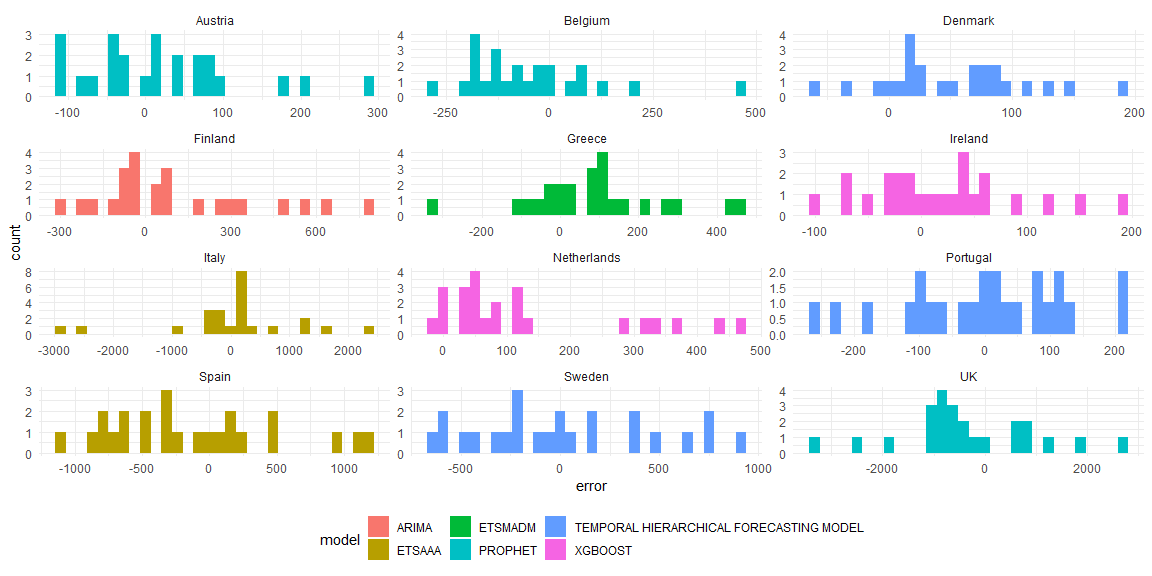
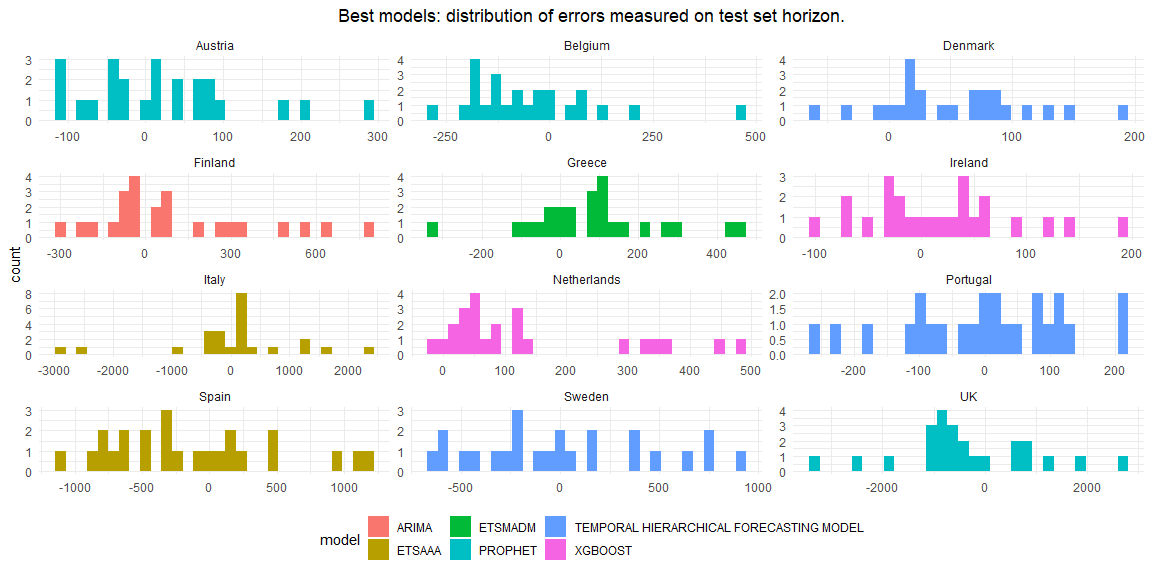
work in progress, 27.10.2021.

diff --git a/Scalable_Demand_Forecasting.md b/Scalable_Demand_Forecasting.md
@@ -198,8 +198,8 @@ by country. In addition we have information about split for train and
 test sets.<br/>
 
 To get inside nested data we can use unnest() function from tidyr
-library. Example is shown below. I encourage to also run commented code
-to see the difference in output.
+library. Example is shown below. I encourage to also run commented out
+code to see the difference in output.
 
 ``` r
 nested_data_tbl %>%
@@ -361,8 +361,11 @@ series based models.
 Like any other ML algorithm, xgboost has hyperparameters.
 Hyperparameters tuning is out of scope of this project, however we’ll
 show how it’s done using tidymodels library. Detailed process can be
-found under below link:
+found under below link:<br/>
 <https://towardsdatascience.com/dials-tune-and-parsnip-tidymodels-way-to-create-and-tune-model-parameters-c97ba31d6173>
+
+Tuning is done using our recipe which is based on a subset of our data
+(first country).
 
 ``` r
 tune_spec <- boost_tree(
@@ -417,7 +420,7 @@ wflw_xgb_1_tuned
     ## 
     ## Computational engine: xgboost
 
-Let’s use those values in our workflow.
+Let’s use some of these values in the workflow.
 
 ``` r
 wflw_xgb <- workflow() %>%
@@ -562,12 +565,12 @@ nested_modeltime_tbl %>%
     ## # A tibble: 60 x 10
     ##    country .model_id .model_desc  .type   mae  mape  mase smape  rmse   rsq
     ##    <chr>       <int> <chr>        <chr> <dbl> <dbl> <dbl> <dbl> <dbl> <dbl>
-    ##  1 Belgium         1 XGBOOST      Test  215.   2.71 0.605  2.77 292.  0.842
+    ##  1 Belgium         1 XGBOOST      Test  209.   2.62 0.588  2.68 289.  0.843
     ##  2 Belgium         2 TEMPORAL HI~ Test  166.   2.19 0.466  2.17 194.  0.933
     ##  3 Belgium         3 ETSMAA       Test  145.   1.91 0.409  1.90 181.  0.928
     ##  4 Belgium         4 ARIMA        Test  182.   2.41 0.512  2.38 220.  0.918
     ##  5 Belgium         5 PROPHET      Test  130.   1.71 0.367  1.71 164.  0.932
-    ##  6 Denmark         1 XGBOOST      Test   71.7  2.23 0.355  2.27  96.5 0.945
+    ##  6 Denmark         1 XGBOOST      Test   71.8  2.23 0.356  2.28  96.1 0.944
     ##  7 Denmark         2 TEMPORAL HI~ Test   60.8  1.96 0.302  1.99  77.5 0.970
     ##  8 Denmark         3 ETSMADA      Test   63.0  2.02 0.313  2.06  79.5 0.970
     ##  9 Denmark         4 ARIMA        Test   88.0  2.75 0.436  2.81 108.  0.964
@@ -580,7 +583,7 @@ nested_modeltime_tbl %>%
 
 Forecast generated by all models can be visualized on test set using
 below code. Plot generated by plot_modeltime_forecast function can be
-interactive when .interactive argument is set to TRUE. It’s a nice
+interactive when ‘.interactive’ argument is set to TRUE. It’s a nice
 feature as it allows zooming in.
 
 ``` r
@@ -596,9 +599,9 @@ nested_modeltime_tbl %>%
 
 ![](Scalable_Demand_Forecasting_files/figure-gfm/unnamed-chunk-22-1.png)<!-- -->
 Plots are busy as all models are displayed, however at at this stage we
-can also select best model per country. Default metric is ‘rmse’ but
-this can be also specified through metric parameter inside
-modeltime_nested_select_best() function.
+can also select best model per country. <br/> Default error ruducing
+metric is ‘rmse’ but this can be also specified through ‘metric’
+parameter inside modeltime_nested_select_best() function.
 
 ``` r
 nested_best_tbl <- nested_modeltime_tbl %>%
@@ -641,7 +644,7 @@ nested_best_tbl_extract <- nested_best_tbl %>%
 ```
 
 With a little bit of data transformation we can get all we need to plot
-errors and evaluate best models from that perspective.
+errors and evaluate best models from that perspective. <br/>
 
 ``` r
 actual <- nested_best_tbl_extract %>%
@@ -654,23 +657,20 @@ vis_table <- actual %>%
   left_join(pred, 
             by = c('country', '.index'),
             keep = FALSE) %>%
+  filter(.key.y == 'prediction') %>%
   rename(conf_low = .conf_lo.y,
          conf_high = .conf_hi.y,
          actual = .value.x,
          prediction = .value.y) %>%
-  mutate(error = if_else(.key.y == 'prediction', 
-                        actual - prediction, 
-                        0),
-         BIAS_cumsum = if_else(.key.y == 'prediciton',
-                               cumsum(actual - prediction),
-                               0)
-  ) %>%
-    select(!c(.model_id.x, .model_desc.x, .conf_lo.x, .conf_hi.x)
-           )
+  group_by(country) %>%
+  mutate(error = actual - prediction,
+         BIAS_cumsum = cumsum(actual - prediction)) %>%
+  select(!c(.model_id.x, .model_desc.x, .conf_lo.x, .conf_hi.x)
+         )
 ```
 
-Let’s again look into best models, but this time let’s only inspect test
-set horizon. It will improve readability of our plot.
+Let’s again look into best models, but this time we’ll only inspect test
+set horizon which should greatly improve readability of our plot.
 
 ``` r
 vis_table %>%
@@ -684,25 +684,25 @@ vis_table %>%
   facet_wrap(.~ country, ncol = 3, scales = 'free_y') +
   labs(color = 'model') +
   theme(legend.position = 'bottom', plot.title = element_text(hjust = 0.5)) +
-  ggtitle('Best models fit on test set horizon.')
+  ggtitle('Best models fit over test set horizon.')
 ```
 
 ![](Scalable_Demand_Forecasting_files/figure-gfm/unnamed-chunk-27-1.png)<!-- -->
 
-It makes a difference, doesn’t it?<br/> **There are 2 interesting
-observations from above plots.**<br/> **Firstly, best results
-(minimizing RMSE) are achieved through different models, depending on a
-country. This shows that ‘one-fit all’ approach doesn’t work in demand
-forecasting.**<br/> **Secondly, in some countries, Machine Learning
-based models deliver best results, confirming its value for demand
-forecasting.**
+It makes a difference, doesn’t it? <br/>
+
+**There are 2 interesting observations from above plots.**<br/>
+**Firstly, best results (minimizing RMSE) are achieved through different
+models, depending on a country. This shows that ‘one-fit all’ approach
+doesn’t work in demand forecasting.**<br/> **Secondly, in some
+countries, Machine Learning based models deliver best results,
+confirming its value for demand forecasting.**
 
 Finally, we can inspect forecast errors. First, let’s visualize their
 distribution.
 
 ``` r
 vis_table %>%
-  filter(.key.y == 'prediction') %>%
   group_by(country) %>%
   ggplot(aes(error, fill = .model_desc.y)) +
   geom_histogram() +
@@ -712,7 +712,10 @@ vis_table %>%
              scales = 'free'
              ) +
   labs(fill = 'model') +
-  theme(legend.position = 'bottom')
+  theme(legend.position = 'bottom', 
+        plot.title = element_text(hjust = 0.5),
+        axis.title.x = element_blank()) +
+  ggtitle('Best models: distribution of errors measured on test set horizon.')
 ```
 
 ![](Scalable_Demand_Forecasting_files/figure-gfm/unnamed-chunk-28-1.png)<!-- -->
@@ -726,7 +729,6 @@ curve is 1 (which is 100% of all probabilities for value on x-axis).
 
 ``` r
 vis_table %>%
-  filter(.key.y == 'prediction') %>%
   group_by(country) %>%
   ggplot(aes(error, fill = .model_desc.y)) +
   geom_density() +
@@ -736,7 +738,10 @@ vis_table %>%
              scales = 'free'
              ) +
   labs(fill = 'model') +
-  theme(legend.position = 'bottom')
+  theme(legend.position = 'bottom',
+        plot.title = element_text(hjust = 0.5),
+        axis.title.x = element_blank()) +
+  ggtitle('Best models: density of errors measured on test set horizon.')
 ```
 
 ![](Scalable_Demand_Forecasting_files/figure-gfm/unnamed-chunk-29-1.png)<!-- -->
@@ -744,5 +749,55 @@ vis_table %>%
 Let’s confirm our findings plotting BIAS (cumulative sum of error
 calculated as actual - forecast) to check for any patterns of CONSISTENT
 deviation from actual demand from test set.
+
+``` r
+vis_table %>%
+  ggplot(group = country) +
+  geom_point(aes(x = .index, y = BIAS_cumsum, color = .model_desc.y)) +
+  geom_line(aes(x = .index, y = BIAS_cumsum, color = .model_desc.y)) +
+  theme_minimal() +
+  facet_wrap(.~ country, ncol = 3, scales = 'free_y') +
+  labs(color = 'model') +
+  theme(legend.position = 'bottom', 
+        plot.title = element_text(hjust = 0.5),
+        axis.title.x = element_blank()) +
+  ggtitle('Best models: cumulative monthly errors over test set horizon.')
+```
+
+![](Scalable_Demand_Forecasting_files/figure-gfm/unnamed-chunk-30-1.png)<!-- -->
+
+We can indeed see clear BIAS in Netherlands and Denmark. It also appears
+that most models are biased, however overall direction is often driven
+by high error in one of months.<br/> For comparison, let’s look at
+errors and if they oscillate around 0.
+
+``` r
+vis_table %>%
+  ggplot(group = country) +
+  geom_point(aes(x = .index, y = error, color = .model_desc.y)) +
+  geom_line(aes(x = .index, y = error, color = .model_desc.y)) +
+  geom_line(aes(x = .index, y = 0), color = 'black') +
+  theme_minimal() +
+  facet_wrap(.~ country, ncol = 3, scales = 'free_y') +
+  labs(color = 'model') +
+  theme(legend.position = 'bottom', 
+        plot.title = element_text(hjust = 0.5),
+        axis.title.x = element_blank()) +
+  ggtitle('Best models: monthly errors over test set horizon.')
+```
+
+![](Scalable_Demand_Forecasting_files/figure-gfm/unnamed-chunk-31-1.png)<!-- -->
+
+Above plot confirms positive BIAS in Netherlands and Denmark and
+negative BIAS in UK over majority of test horizon. Errors in other
+market oscillate around 0, which indicates that there’s no major problem
+with BIAS.<br/>
+
+Selection of model reducing BIAS is not possible in modeltime library
+simply because we’re restricted by available metrics.<br/> We can
+however create custom metrics with a help of parsley library which
+provides a standard template for this. To present this functionality,
+we’ll build a few simple BIAS-oriented metrics and some other demand
+forecasting accuracy-oriented metrics.
 
 TO BE CONTINUED.
